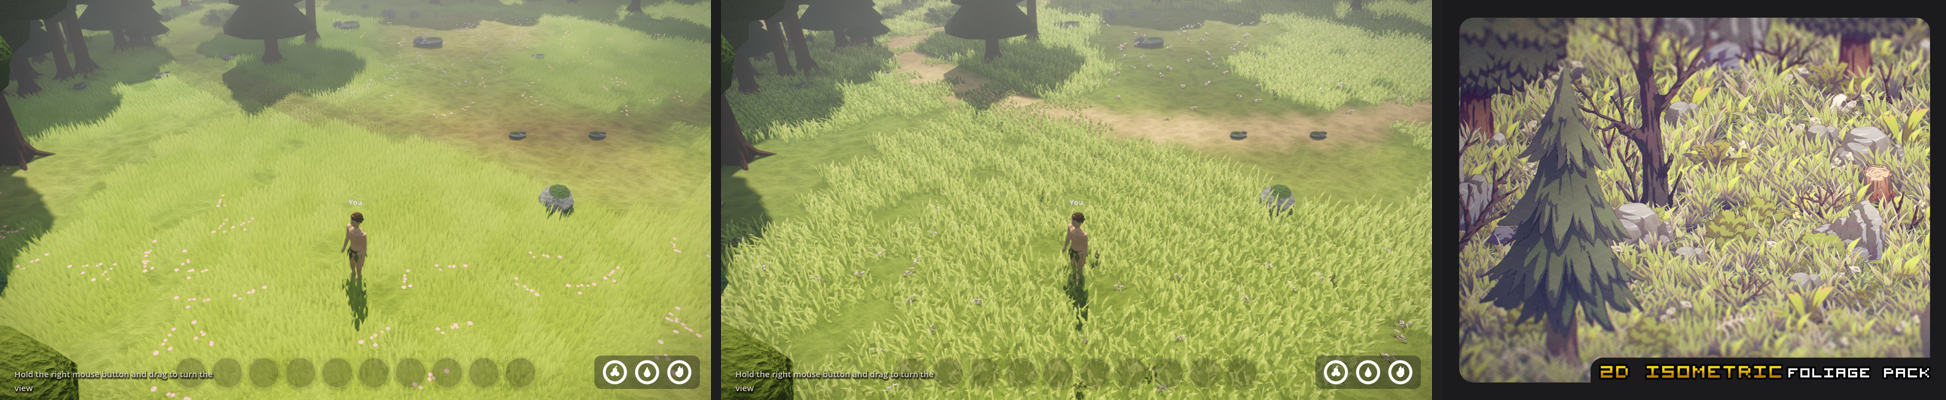
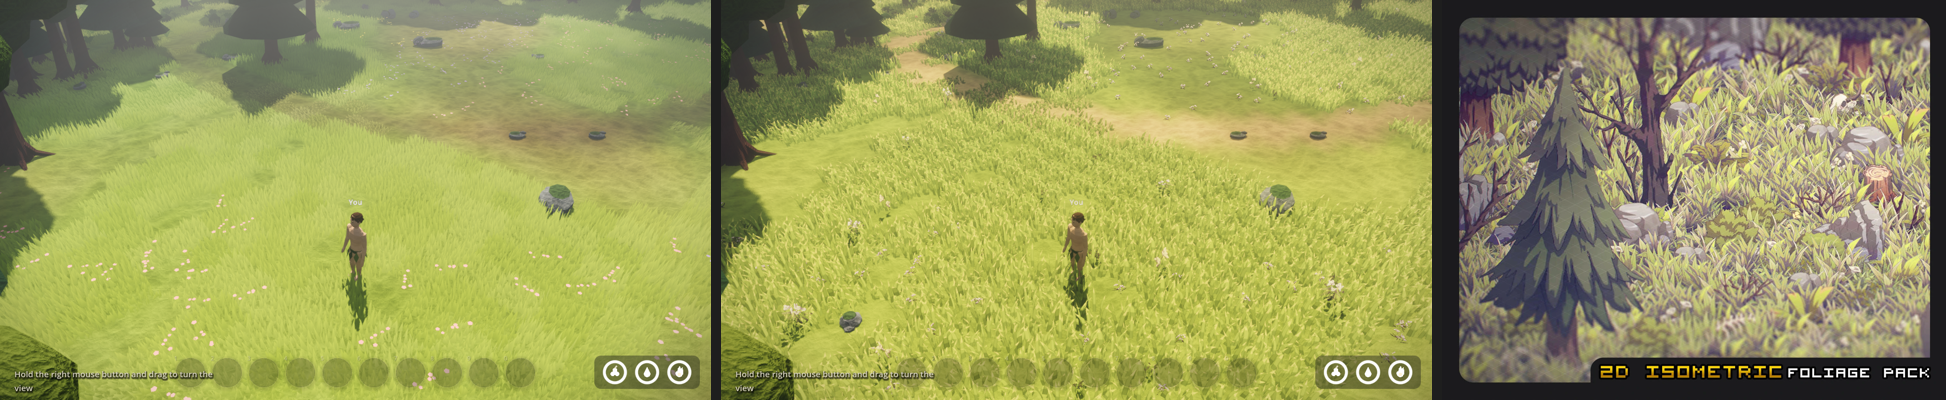
env-13: carpet fully filled in the pack's warm yellow-green; more blade variety; renders with --grade=1
Claude-Session: https://claude.ai/code/session_012hVejTxLoxBpZyX3GQmNL9

Changed region(s): [[0.37, 0.0, 0.74, 1.0]]

diff --git a/client/scripts/environment/PaintedGround.cs b/client/scripts/environment/PaintedGround.cs
@@ -22,9 +22,10 @@ public static class PaintedGround
     // muted mid green each blade is tinted with, and the olive-yellow lit tip the
     // shader paints toward (it holds its own copies, in the band code).
     static readonly Color GrassMid = new(0.47f, 0.58f, 0.20f), GrassLit = new(0.81f, 0.79f, 0.44f);
-    // The ground under the carpet, a deep olive matching the blades' shaded base so the
-    // gaps read as shade (as in reference 02), and the pack's sandy path.
-    static readonly Color MeadowTop = new(0.35f, 0.41f, 0.17f), PathSand = new(0.70f, 0.58f, 0.38f);
+    // The ground under the carpet, the pack's warm yellow-green a shade darker than the
+    // blades, matching their shaded base so the carpet reads fully filled, and the
+    // pack's sandy path.
+    static readonly Color MeadowTop = new(0.50f, 0.57f, 0.22f), PathSand = new(0.70f, 0.58f, 0.38f);
 
     static Mesh? twig;
     static ShaderMaterial? grassMaterial;
@@ -93,7 +94,7 @@ public static class PaintedGround
                 float half = 0.035f + H(gx, gz, 624) * 0.025f;
                 var side = new Vector3(Mathf.Cos(angle), 0, Mathf.Sin(angle)) * half;
                 var lean = new Vector3(H(gx, gz, 625) - 0.5f, 0, H(gx, gz, 626) - 0.5f).Normalized() * (0.08f + H(gx, gz, 627) * 0.16f);
-                var shade = Colors.White.Darkened(H(gx, gz, 628) * 0.18f);
+                var shade = Colors.White.Darkened(H(gx, gz, 628) * 0.32f);
                 var root = new Vector3(px, -0.02f, pz);
                 var mid = root + lean * 0.35f + Vector3.Up * height * 0.55f;
                 var tip = root + lean + Vector3.Up * height * 0.9f;
@@ -119,7 +120,7 @@ public static class PaintedGround
     // The restyled grass (the same tuft mesh and density as today's).
     public static ShaderMaterial GrassMaterial => grassMaterial ??= MakeGrassMaterial();
 
-    // The ground colour: today's tile colour pulled half way to the deep olive (still
+    // The ground colour: today's tile colour pulled half way to the warm yellow-green (still
     // browner under trees and on the heath), with the deer trails worn to sandy paths.
     public static Color Ground(Color tile, float trail) =>
         tile.Lerp(MeadowTop, 0.5f).Lerp(PathSand, Mathf.SmoothStep(0.25f, 0.7f, trail));
@@ -314,8 +315,8 @@ public static class PaintedGround
         void fragment() {
             // The base matches the ground between the blades (PaintedGround.Ground), so a
             // patch without a tuft never shows as a square.
-            vec3 base = tint * vec3(0.5, 0.52, 0.6);
-            vec3 lit = mix(tint * vec3(1.15, 1.1, 0.9), pow(vec3(0.81, 0.79, 0.44), vec3(2.2)), 0.35 + 0.2 * patch);
+            vec3 base = tint * vec3(0.58, 0.6, 0.66);
+            vec3 lit = mix(tint * vec3(1.2, 1.12, 0.85), pow(vec3(0.84, 0.80, 0.40), vec3(2.2)), 0.45 + 0.2 * patch);
             float low = 0.26 + 0.1 * patch, high = 0.68 + 0.12 * patch;
             vec3 color = mix(base, tint, smoothstep(low - 0.04, low + 0.04, tip));
             color = mix(color, lit, smoothstep(high - 0.04, high + 0.04, tip));

diff --git a/tickets/env-13.md b/tickets/env-13.md
@@ -13,10 +13,11 @@ Match ground cover and terrain to Justin's docs/art-reference (02 forest meadow,
 - 2026-10-17 00:40 UTC: switched to the PM's steer: Golden Skull foliage sprites packed into client/assets/environment/foliage_atlas.png (tools/env-assets/build_foliage_atlas.py; NOTICE.md) as crossed alpha cards with a prototype card shader (sway, root darkening, fade by 48 m for grass). Ground pulled to the pack's grass-top yellow-green (0.60, 0.66, 0.28), sandy paths (0.70, 0.58, 0.38) on deer trails. Grass clumps: 3 variants of 5 crossed tufts each, turned, nudged and sized per tile; dense cover even under trees. Mushrooms and clover as pack cards; ferns and flowers swapped to cards. Added `--ground=mixed`: today's fine carpet with painted clumps on one tile in four. Renders (xvfb, (0,10), noon, summer): renders/env-13/env-13-1-today.png, -2-painted-cards.png, -3-mixed.png.
 - 2026-10-17 01:00 UTC: Justin rejected the card grass ("HORRIBLE, I want the old grass back, and make it match the new style"); the PM set the bar: side by side with reference 02/03 it should read as the same artist, full non-photoreal. Reworked: the old dense, wind-swept carpet is the grass again (same density, motion, 48 m fade), restyled with a prototype banded grass shader (PaintedGround.GrassMaterial: shaded violet-olive base matching the ground, the tile's muted green, olive-yellow lit tips; band edges shift per patch; soft dark rim along blade edges) on a broad-leaf tuft (64 arching leaves per m², 1.3x taller). Ground a deep olive so gaps read as shade; sandy trails. Pack cards only as sparse accents (ferns, flowers, clover, mushrooms). Card clumps and the mixed mode removed. Side by side (today / painted / reference 02): renders/env-13/env-13-grass-before-after-ref02.png, close-up env-13-grass-closeup.png. Self-critique sent to the PM; grade/contrast asked of Atmosphere.
 - 2026-10-17 01:15 UTC: accents denser: small grey-violet stones (Rock variants at 0.55-1.0 scale, variant D stone tint) and the pack's white flowers in the meadow grass, more twigs. Grove-edge framing (6,16): renders/env-13/env-13-grove-edge-before-after-ref02.png. Under the canopy the old tree meshes dominate the frame (Modeling's D), so the grass is only part of the gap. Land.WaterAt PR #387 green (92b0f9e), sent to the PM.
+- 2026-10-17 01:45 UTC: merged main (worker-thread chunks: PaintedGround.Prewarm for everything the builds touch) and Atmosphere's grade (claude/atmosphere-25-grade, --grade=1). Per the PM: carpet fully filled in the pack's bright warm yellow-green (ground (0.50, 0.57, 0.22) matching the blades' base band), more blade-to-blade shade variation, yellower lit band. Renders updated (renders/env-13/env-13-grass-before-after-ref02.png, -closeup.png, with --grade=1). Next: Modeling's combined Showcase scene (their D trees/rocks/stumps + this grass + the grade); Justin sees it only at about 70% of reference 02.
 
 ## Open questions / blockers
 - Modeling: variant D palette values; mushroom/twig ownership.
 - From afar (past the 48 m grass fade) the darker earth would show without grass over it; needs a distance blend in the ground shader (Atmosphere) if this is picked.
 
 ## Next step
-Iterate on the self-critique list (bigger leaves near the camera, denser accents, distance colour blend; grade with Atmosphere) until the side by side with reference 02 is genuinely close; the PM shows Justin.
+Critique Modeling's combined scene (claude/model-4-materials, --view=painted) with this grass and --grade=1 against reference 02; iterate the ground until the whole frame is about 70%; then the PM shows Justin. Still to do for shipping: distance colour blend past 48 m, shader into Look (Atmosphere agreed).
